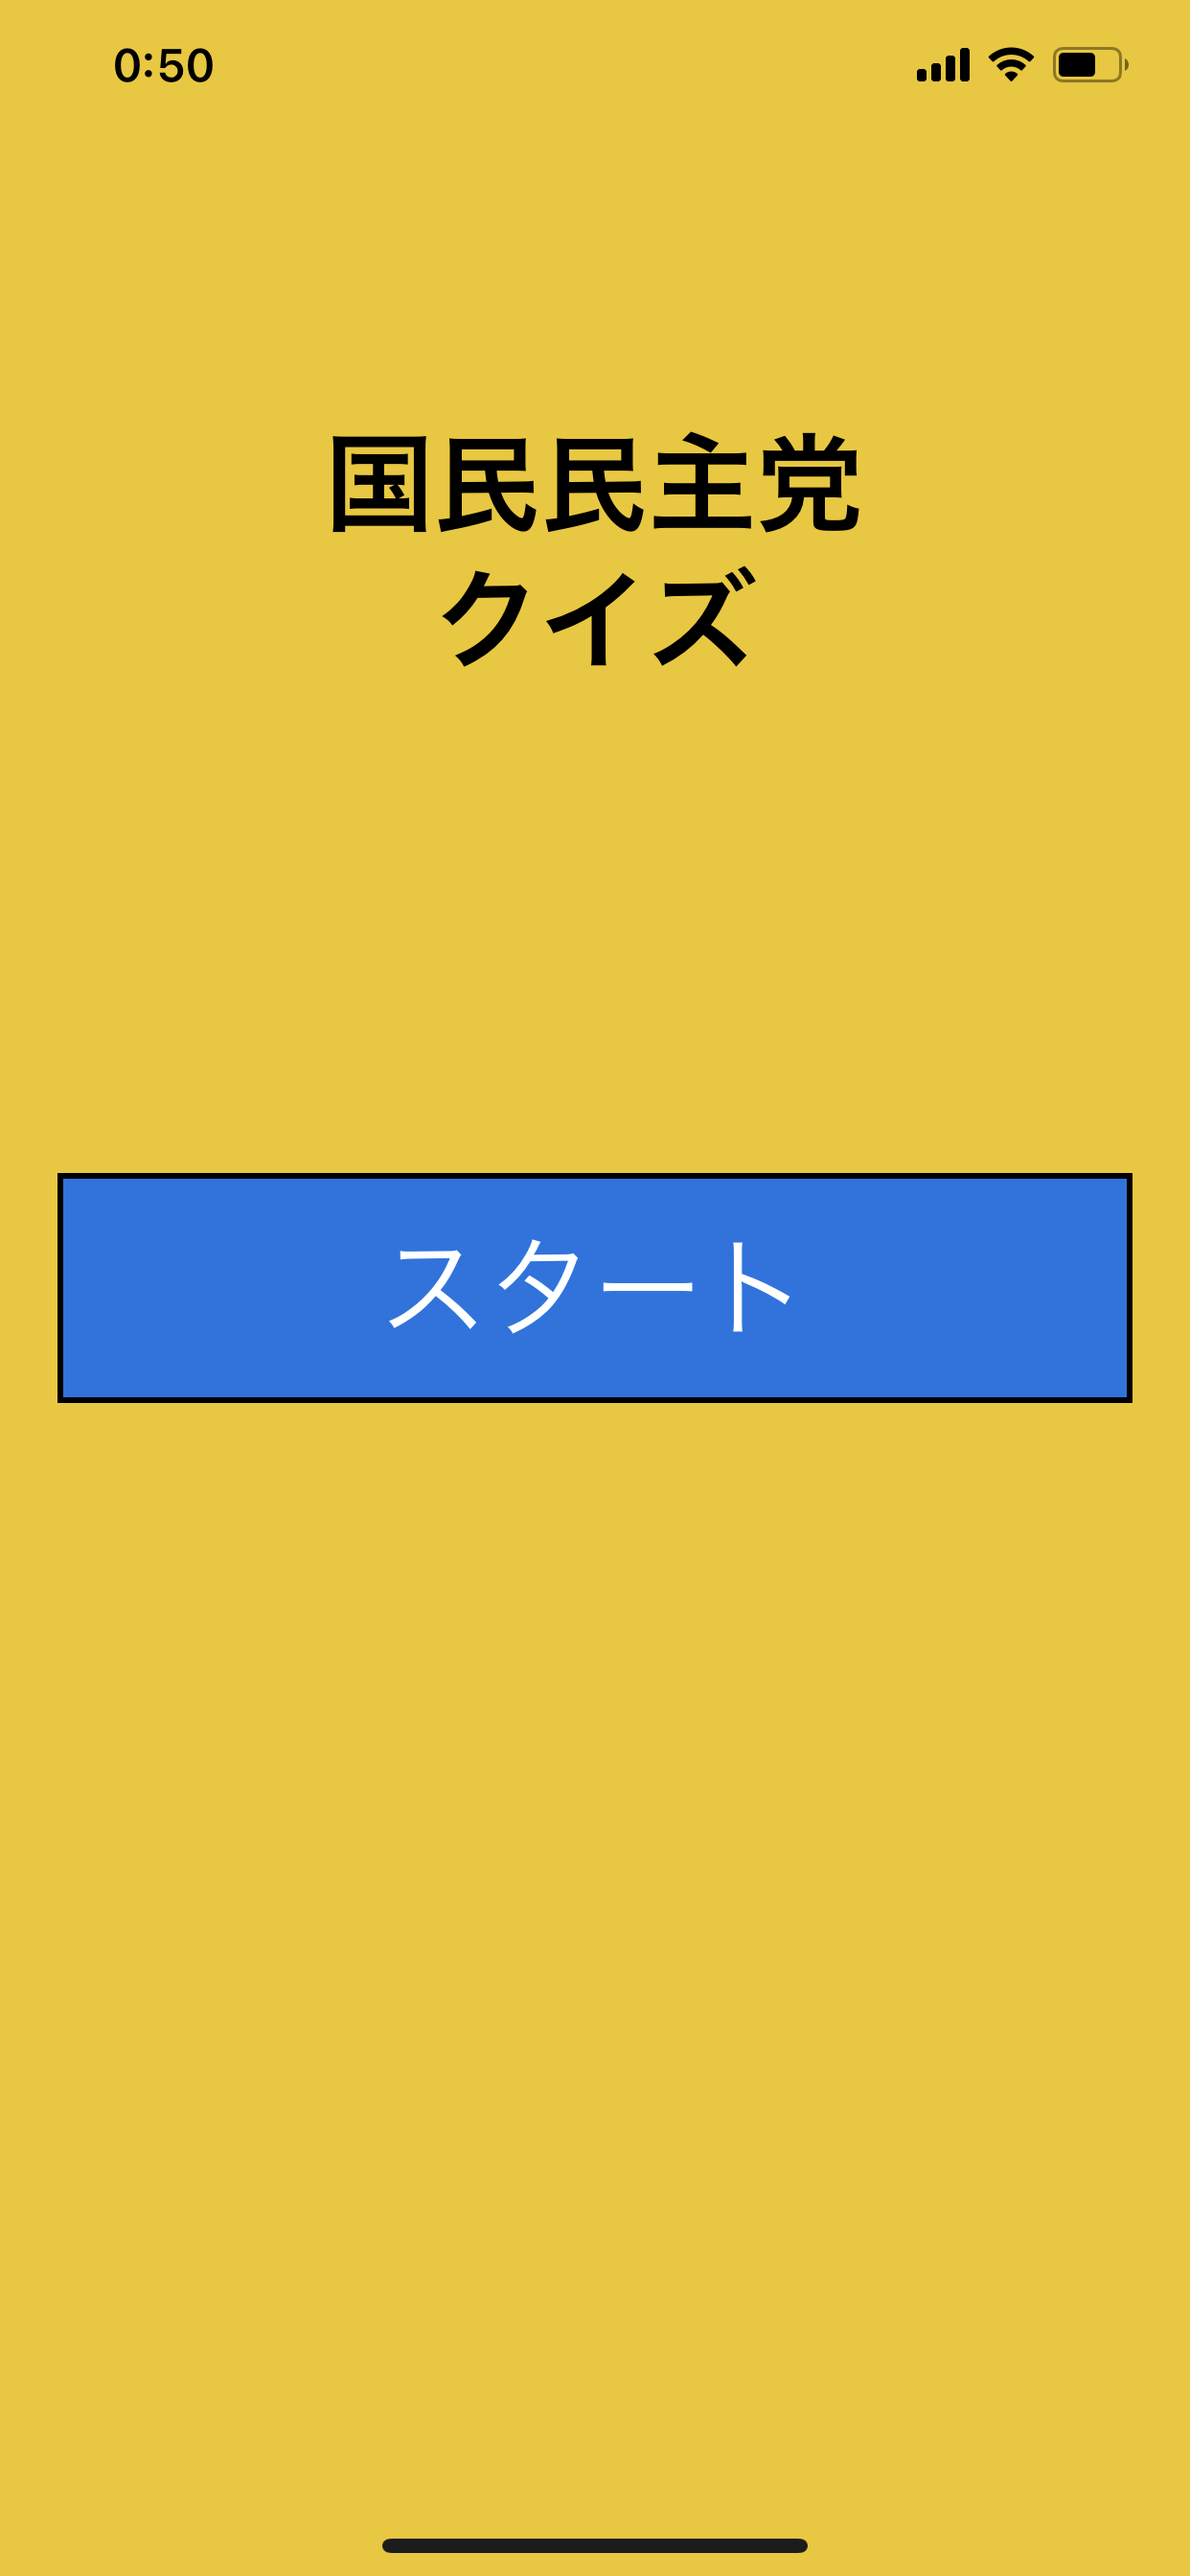
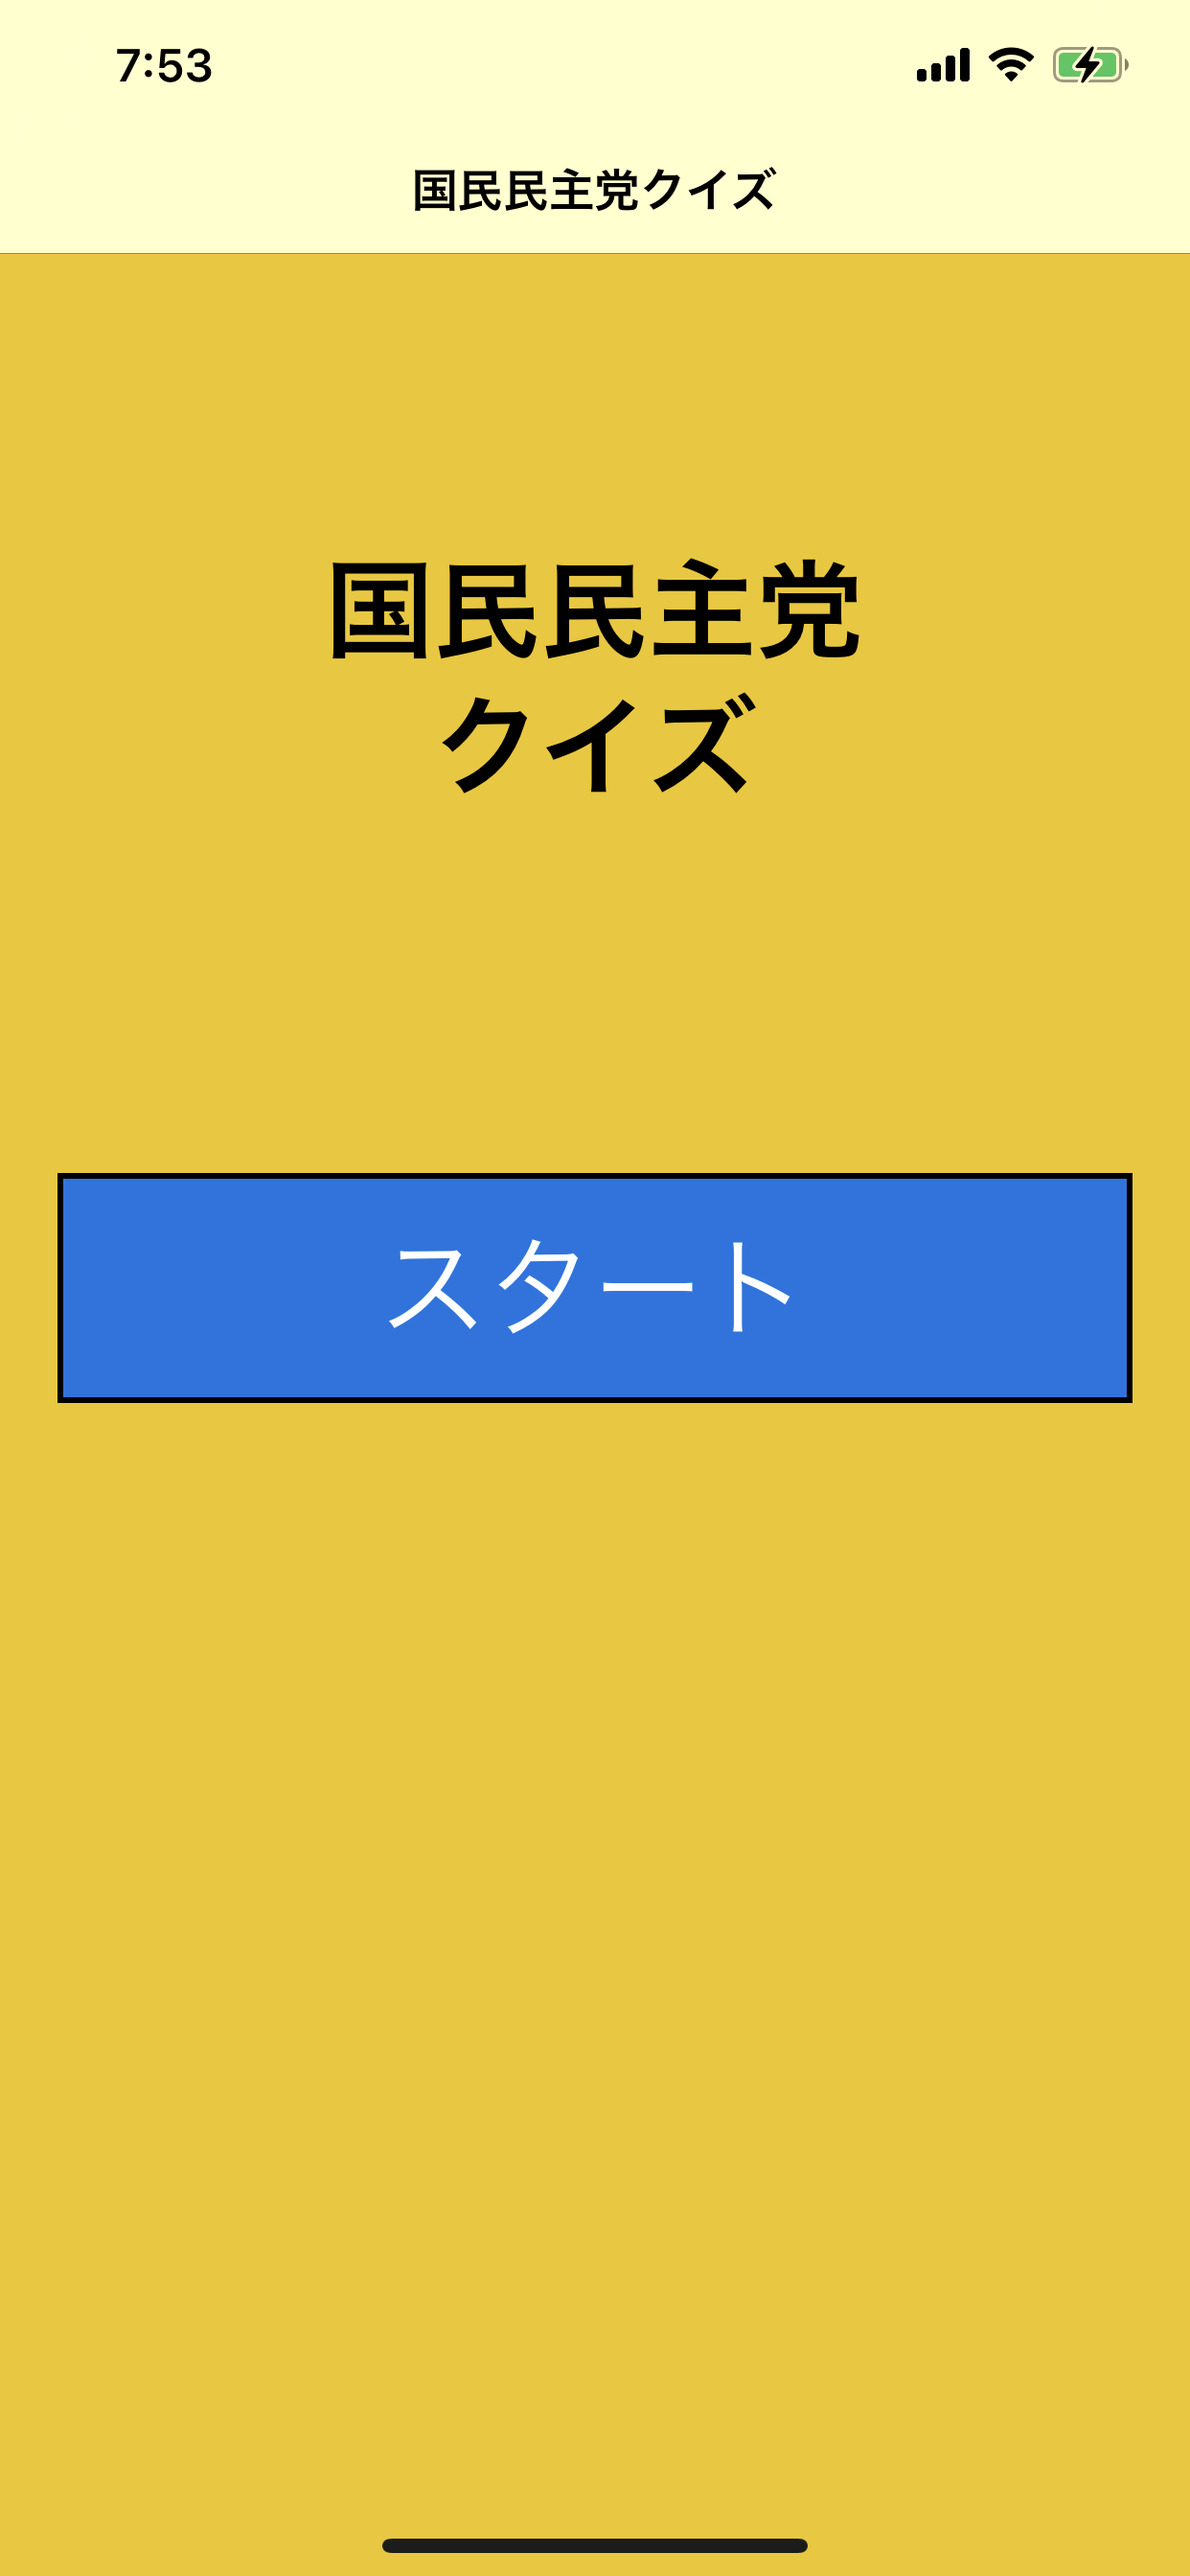
画面キャプチャー更新

Changed region(s): [[0.0, 0.0, 1.0, 0.125], [0.2754, 0.1562, 0.7343, 0.3125]]

diff --git a/public/index.html b/public/index.html
@@ -44,6 +44,9 @@
       <h2>国民民主党アプリサポートページへようこそ</h2>
       <p>こちらは国民民主党アプリサポートページです。</p>
       <p>This is the Democratic Party for the People  app support page.</p>
+      <h2>バージョン</h2>
+      <h2>Version</h2>
+      <p>1.0.0002</p>
       <h2>画面</h2>
       <h2>Display</h2>
       <img src="images/start.png"
@@ -55,14 +58,22 @@
         <img src="images/mondai.png"
         alt="問題画面"
         width="200">
+        <img src="images/seikai.png"
+        alt="正解"
+        width="200">
+        <img src="images/machigai.png"
+        alt="間違い"
+        width="200">
         <img src="images/score.png"
         alt="スコア画面"
         width="200">
-        <h2>バージョン</h2>
-        <h2>Version</h2>
-        <p>1.0.0000</p>
         <h2>機能</h2>
         <h2>Feature</h2>
+        <p>1.0.0002</p>
+        <ul>
+          <li>スタート画面にNavigation Barを表示します。</li>
+        </ul>
+        <p>1.0.0000</p>
         <ul>
           <li>国民民主党クイズを開始できます。</li>
           <li>クイズの難易度を選択できます。</li>
@@ -73,6 +84,12 @@
           <li>結果をSNS等にシェアすることができます。</li>
           <li>結果表示画面からスタート画面に戻ることができます。</li>
         </ul>
+        <h2>連絡先</h2>
+        <h2>Contact</h2>
+        <p>お問い合わせは下記にご連絡をお願い致します。</p>
+        <p>For inquiries, please contact the following.</p>
+        <p>メール：<a href="mailto:kanta13jp&#64;gmail.com">kanta13jp@gmail.com</a></p>
+        <p>Twitter：<a href="http://twitter.com/kanta13jp1">@kanta13jp1</a></p>
       </div>
 
     <script type="module">
